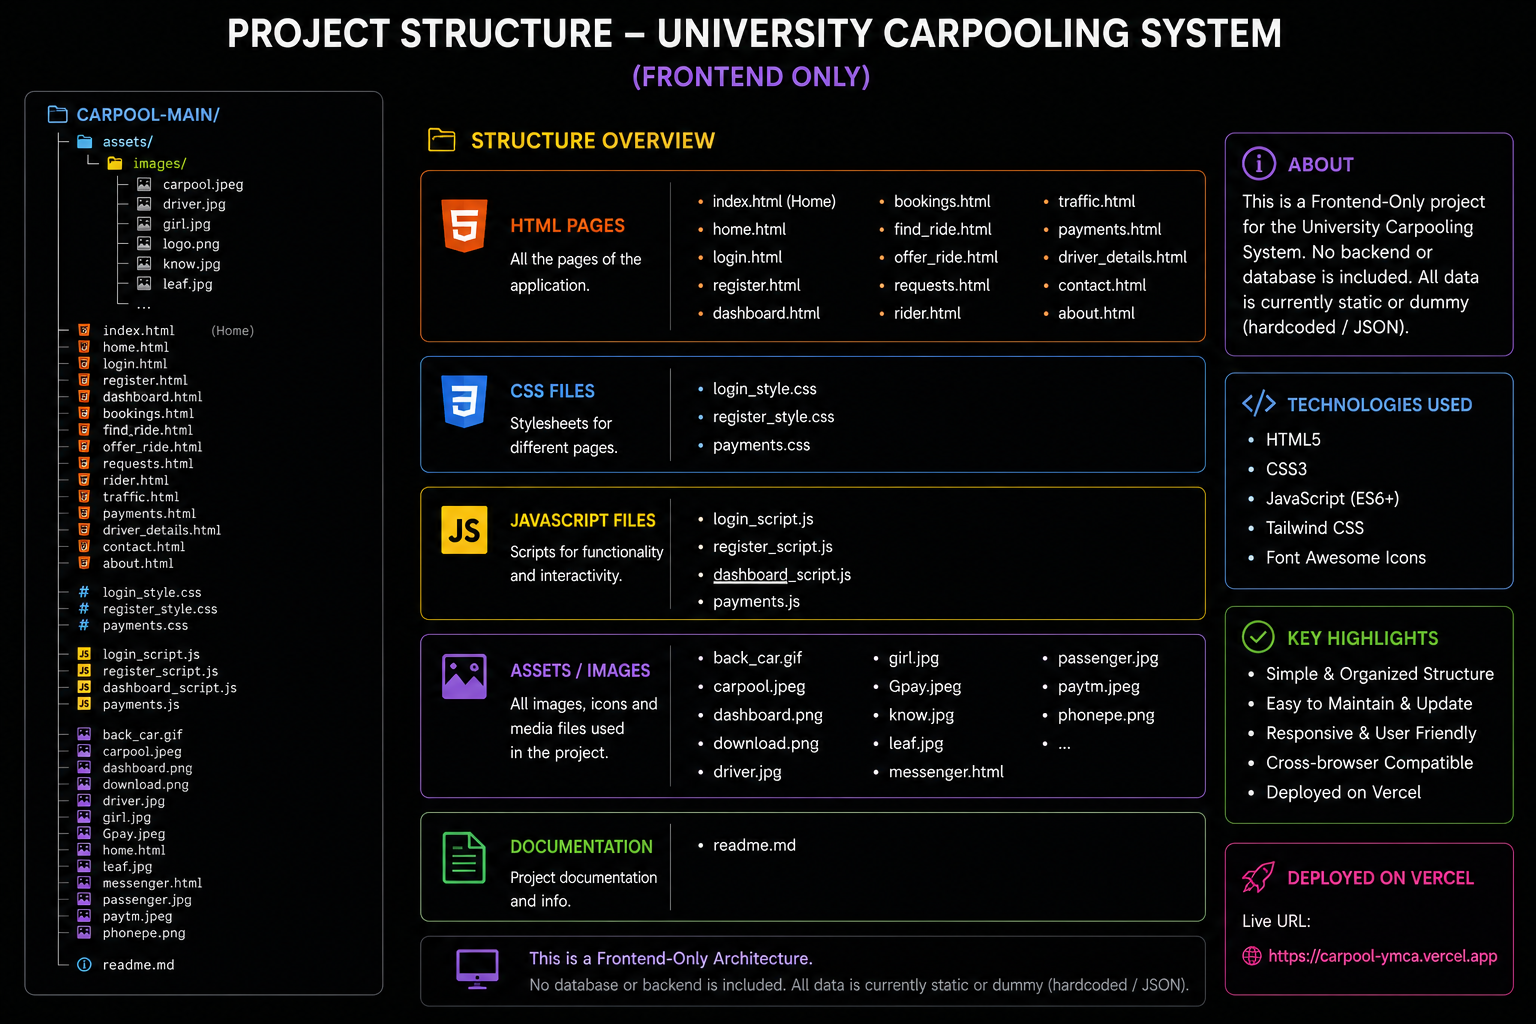
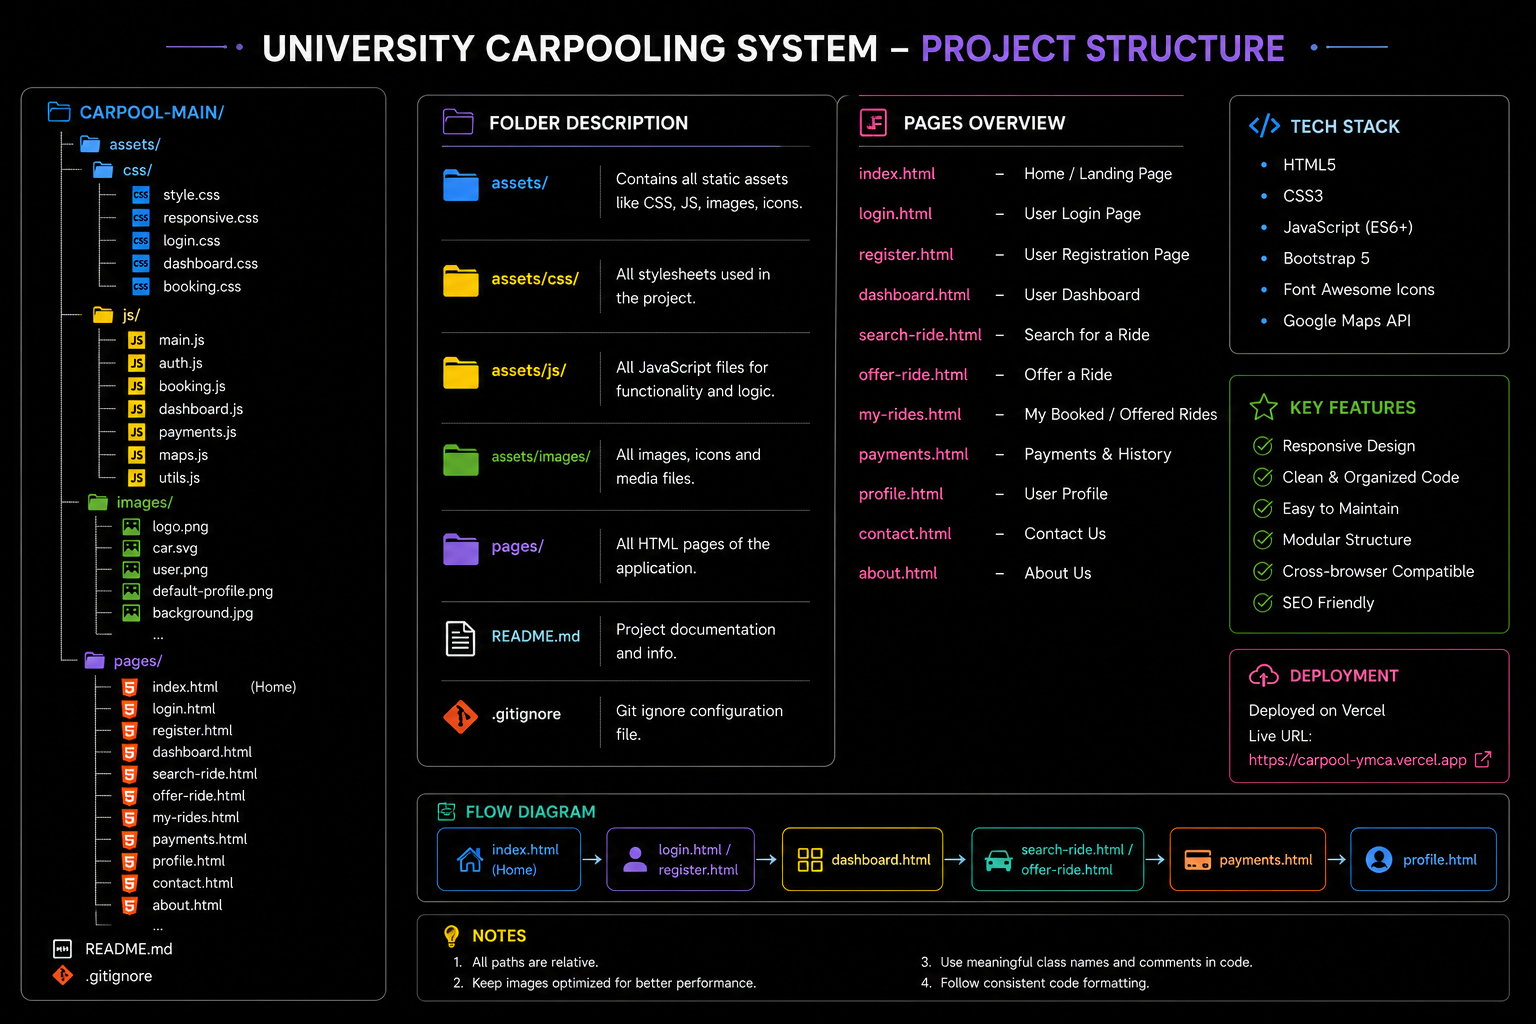
123

diff --git a/html/dashboard.html b/html/dashboard.html
@@ -650,9 +650,9 @@ footer p:hover {
         <div class="university-name">J.C. Bose University of Science and Technology, YMCA, Faridabad, Haryana - 121006</div>
     </div>
     <div class="menu">
-        <a href="html/home.html">Home</a>
-        <a href="html/about.html">About Us</a>
-        <a href="html/contact.html">Contact Us</a>
+        <a href="home.html">Home</a>
+        <a href="about.html">About Us</a>
+        <a href="contact.html">Contact Us</a>
     </div>
     <div class="alerts-button-container">
         <button id="alertsButton" class="alerts-button">
@@ -662,7 +662,7 @@ footer p:hover {
     </div>
 
 <div class="emergency-button-container">
-            <button class="emergency-button" onclick="window.location.href='html/need.html'">
+            <button class="emergency-button" onclick="window.location.href='need.html'">
                 <i class="fas fa-exclamation-triangle emergency-icon"></i>
                 Need Help
             </button>
@@ -677,8 +677,8 @@ footer p:hover {
         <h1>Welcome to University Carpooling</h1>
         <p>Join hands to make commuting easier and eco-friendly for everyone!</p>
         <div>
-            <button class="selection-btn" onclick="window.location.href='html/driver_register.html'">I am a Driver</button>
-            <button class="selection-btn" onclick="window.location.href='html/rider.html'">I am a Passenger</button>
+            <button class="selection-btn" onclick="window.location.href='driver_register.html'">I am a Driver</button>
+            <button class="selection-btn" onclick="window.location.href='rider.html'">I am a Passenger</button>
         </div>
     </div>
 </section>
@@ -727,16 +727,16 @@ footer p:hover {
             <div id="loading" class="loading-circle"></div>
             <div id="loading-text">Finding nearby rides...</div>
         </div>
-        <button class="btn" onclick="window.location.href='html/messenger.html'">Chat with Driver</button>
-        <button class="btn" onclick="window.location.href='html/payments.html'">Make Payments</button>
+        <button class="btn" onclick="window.location.href='messenger.html'">Chat with Driver</button>
+        <button class="btn" onclick="window.location.href='payments.html'">Make Payments</button>
     </section>
 
     <section id="driver-dashboard" class="driver-dashboard">
         <img src="../assets/driver.jpg" alt="Driver Dashboard Image">
         <h2>Driver Dashboard</h2>
-        <button class="btn" onclick="window.location.href='html/bookings.html'">View Bookings</button>
-        <button class="btn" onclick="window.location.href='html/offer_ride.html'">Offer a Ride</button>
-        <button class="btn" onclick="window.location.href='html/message_driver.html'">Chat with Rider</button>
+        <button class="btn" onclick="window.location.href='bookings.html'">View Bookings</button>
+        <button class="btn" onclick="window.location.href='offer_ride.html'">Offer a Ride</button>
+        <button class="btn" onclick="window.location.href='message_driver.html'">Chat with Rider</button>
     </section>
 
     <section class="why-carpooling-section">
@@ -815,11 +815,11 @@ footer p:hover {
     function startSearch() {
     document.getElementById("loading-wrapper").style.display = "flex";
     setTimeout(function() {
-        window.location.href = 'html/find_ride.html';
+        window.location.href = 'find_ride.html';
     }, 3000);  
 }
 document.getElementById('alertsButton').addEventListener('click', function() {
-            window.location.href = 'html/traffic.html'; 
+            window.location.href = 'traffic.html'; 
         });
 
     

diff --git a/html/find_ride.html b/html/find_ride.html
@@ -75,7 +75,7 @@
         <p class="text-gray-600">⏱ Arrival: 10 mins</p>
         <div class="mt-6 flex justify-between">
           <button class="px-6 py-2 bg-blue-500 text-white rounded shadow-md hover:bg-blue-600">Request Ride</button>
-          <a href="html/driver_details.html" class="px-6 py-2 bg-gray-200 text-gray-800 rounded shadow-md hover:bg-gray-300">Driver Details</a>
+          <a href="driver_details.html" class="px-6 py-2 bg-gray-200 text-gray-800 rounded shadow-md hover:bg-gray-300">Driver Details</a>
         </div>
       </div>
 
@@ -87,7 +87,7 @@
         <p class="text-gray-600">⏱ Arrival: 12 mins</p>
         <div class="mt-6 flex justify-between">
           <button class="px-6 py-2 bg-teal-500 text-white rounded shadow-md hover:bg-teal-600">Request Ride</button>
-          <a href="html/driver_details.html" class="px-6 py-2 bg-gray-200 text-gray-800 rounded shadow-md hover:bg-gray-300">Driver Details</a>
+          <a href="driver_details.html" class="px-6 py-2 bg-gray-200 text-gray-800 rounded shadow-md hover:bg-gray-300">Driver Details</a>
         </div>
       </div>
 
@@ -99,7 +99,7 @@
         <p class="text-gray-600">⏱ Arrival: 8 mins</p>
         <div class="mt-6 flex justify-between">
           <button class="px-6 py-2 bg-purple-500 text-white rounded shadow-md hover:bg-purple-600">Request Ride</button>
-          <a href="html/driver_details.html" class="px-6 py-2 bg-gray-200 text-gray-800 rounded shadow-md hover:bg-gray-300">Driver Details</a>
+          <a href="driver_details.html" class="px-6 py-2 bg-gray-200 text-gray-800 rounded shadow-md hover:bg-gray-300">Driver Details</a>
         </div>
       </div>
 
@@ -111,7 +111,7 @@
         <p class="text-gray-600">⏱ Arrival: 15 mins</p>
         <div class="mt-6 flex justify-between">
           <button class="px-6 py-2 bg-red-500 text-white rounded shadow-md hover:bg-red-600">Request Ride</button>
-          <a href="html/driver_details.html" class="px-6 py-2 bg-gray-200 text-gray-800 rounded shadow-md hover:bg-gray-300">Driver Details</a>
+          <a href="driver_details.html" class="px-6 py-2 bg-gray-200 text-gray-800 rounded shadow-md hover:bg-gray-300">Driver Details</a>
         </div>
       </div>
 
@@ -123,7 +123,7 @@
         <p class="text-gray-600">⏱ Arrival: 9 mins</p>
         <div class="mt-6 flex justify-between">
           <button class="px-6 py-2 bg-yellow-500 text-white rounded shadow-md hover:bg-yellow-600">Request Ride</button>
-          <a href="html/driver_details.html" class="px-6 py-2 bg-gray-200 text-gray-800 rounded shadow-md hover:bg-gray-300">Driver Details</a>
+          <a href="driver_details.html" class="px-6 py-2 bg-gray-200 text-gray-800 rounded shadow-md hover:bg-gray-300">Driver Details</a>
         </div>
       </div>
 
@@ -180,7 +180,7 @@
   });
 
   document.getElementById('connectButton').addEventListener('click', function() {
-    window.location.href = 'html/messenger.html'; 
+    window.location.href = 'messenger.html'; 
   });
   </script>
 </body>

diff --git a/html/bookings.html b/html/bookings.html
@@ -138,7 +138,7 @@
                 <p><strong>Time:</strong> 2:30 PM</p>
             </div>
             <div class="mt-4 text-center">
-                <a href="html/requests.html?booking=001" class="btn">View Details</a>
+                <a href="requests.html?booking=001" class="btn">View Details</a>
             </div>
         </div>
         <div class="card p-6">
@@ -151,7 +151,7 @@
                 <p><strong>Time:</strong> 9:00 AM</p>
             </div>
             <div class="mt-4 text-center">
-                <a href="html/requests.html?booking=002" class="btn">View Details</a>
+                <a href="requests.html?booking=002" class="btn">View Details</a>
             </div>
         </div>
         <div class="card p-6">
@@ -164,7 +164,7 @@
                 <p><strong>Time:</strong> 7:45 PM</p>
             </div>
             <div class="mt-4 text-center">
-                <a href="html/requests.html?booking=003" class="btn">View Details</a>
+                <a href="requests.html?booking=003" class="btn">View Details</a>
             </div>
         </div>
     </div>

diff --git a/html/driver_register.html b/html/driver_register.html
@@ -196,7 +196,7 @@
         document.getElementById('driverForm').addEventListener('submit', function(event) {
     event.preventDefault();
     alert("You're successfully registered as a driver.");
-    window.location.href = "html/dashboard.html#driver-dashboard";
+    window.location.href = "dashboard.html#driver-dashboard";
 });
 
     </script>

diff --git a/html/login.html b/html/login.html
@@ -30,7 +30,7 @@
 
             <input id="btn" type="submit" value="Login">
 
-            <p>Don't have an account? <a href="html/register.html">Register</a></p>
+            <p>Don't have an account? <a href="register.html">Register</a></p>
             <p id="error-message" style="color: red;"></p>
         </form>
     </div>

diff --git a/html/requests.html b/html/requests.html
@@ -74,7 +74,7 @@
             <p><strong>Time:</strong> 2:30 PM</p>
         </div>
         <div class="text-center">
-            <a href="index.html" class="btn">Back to Bookings</a>
+            <a href="../index.html" class="btn">Back to Bookings</a>
         </div>
     </div>
 </div>

diff --git a/html/rider.html b/html/rider.html
@@ -275,7 +275,7 @@
             event.preventDefault();
             const name = document.getElementById('name').value;
             alert(`Hello, ${name}! You're successfully registered.`);
-            window.location.href = "html/dashboard.html#passenger-dashboard";
+            window.location.href = "dashboard.html#passenger-dashboard";
         });
     </script>
     

diff --git a/js/login_script.js b/js/login_script.js
@@ -8,7 +8,7 @@ document.getElementById('loginForm').addEventListener('submit', function(event) 
     if (storedUser) {
         
         if (email === storedUser.email && password === storedUser.password) {
-        window.location.href = 'html/dashboard.html';
+        window.location.href = 'dashboard.html';
         } else {
         
             document.getElementById('error-message').textContent = 'Invalid email or password. Please try again.';

diff --git a/js/register_script.js b/js/register_script.js
@@ -24,7 +24,7 @@ document.getElementById('registrationForm').addEventListener('submit', function(
     localStorage.setItem('user', JSON.stringify(user));
     document.getElementById('popup').style.display = 'block';
     setTimeout(function() {
-        window.location.href = 'html/login.html';
+        window.location.href = 'login.html';
     }, 2000); 
 });
 

diff --git a/readme.md b/readme.md
@@ -17,7 +17,7 @@ The platform enables users to register as drivers or passengers, search for avai
 * Improve accessibility and convenience for daily transportation.
 * Create a secure and user-friendly ride booking experience.
 
-![System Architecture](../assets/1.png)
+![System Architecture](assets/1.png)
 <h2>Key Features</h2>
 <h3>User Authentication</h3>
 
@@ -75,7 +75,7 @@ The platform enables users to register as drivers or passengers, search for avai
 * Vercel
 <br>
 
-![Project Structure](../assets/2.png)
+![Project Structure](assets/2.png)
 <h2>Installation</h2>
 <h3>Clone Repository</h3>
 